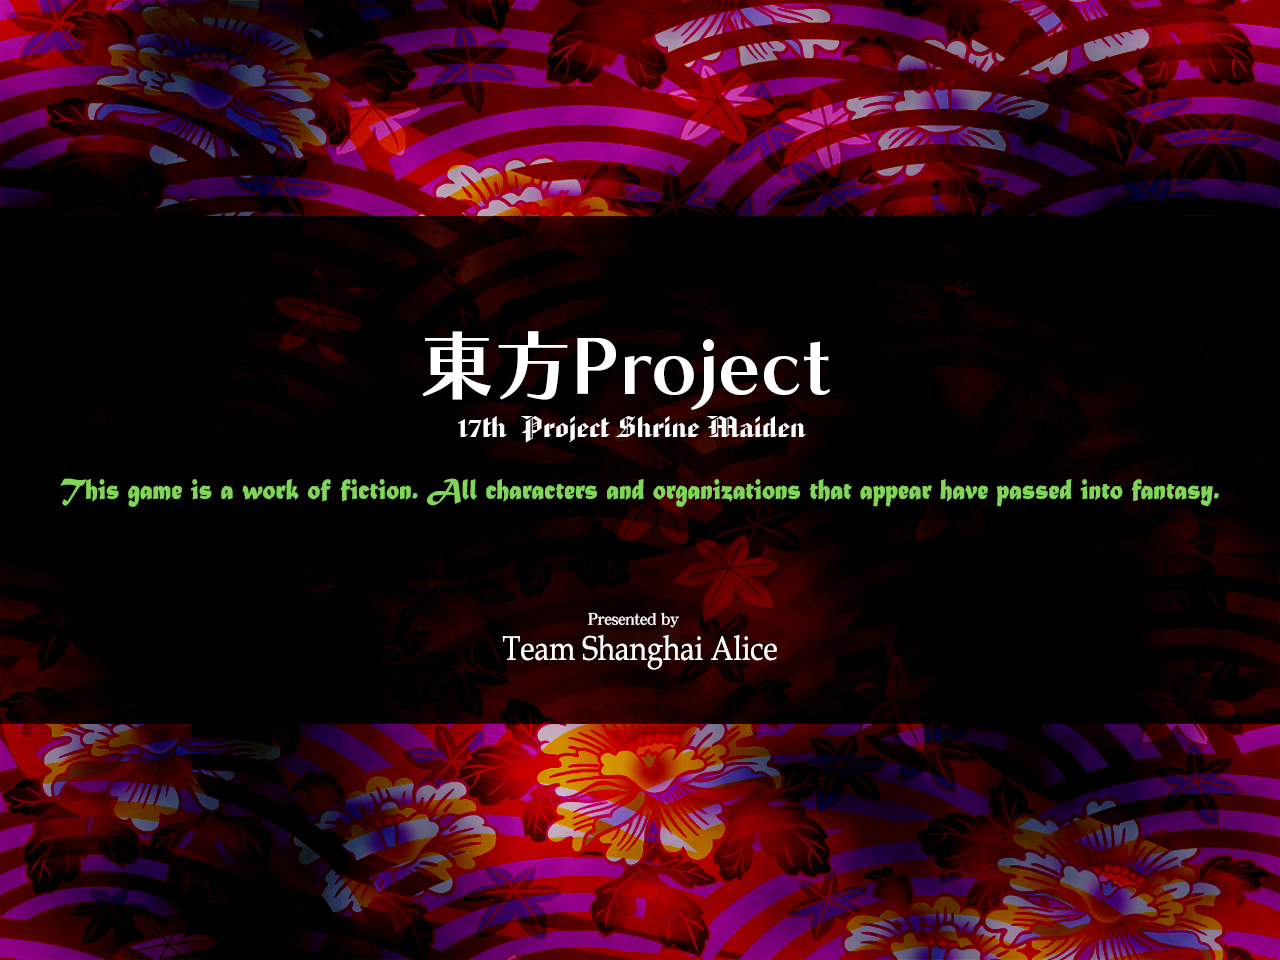
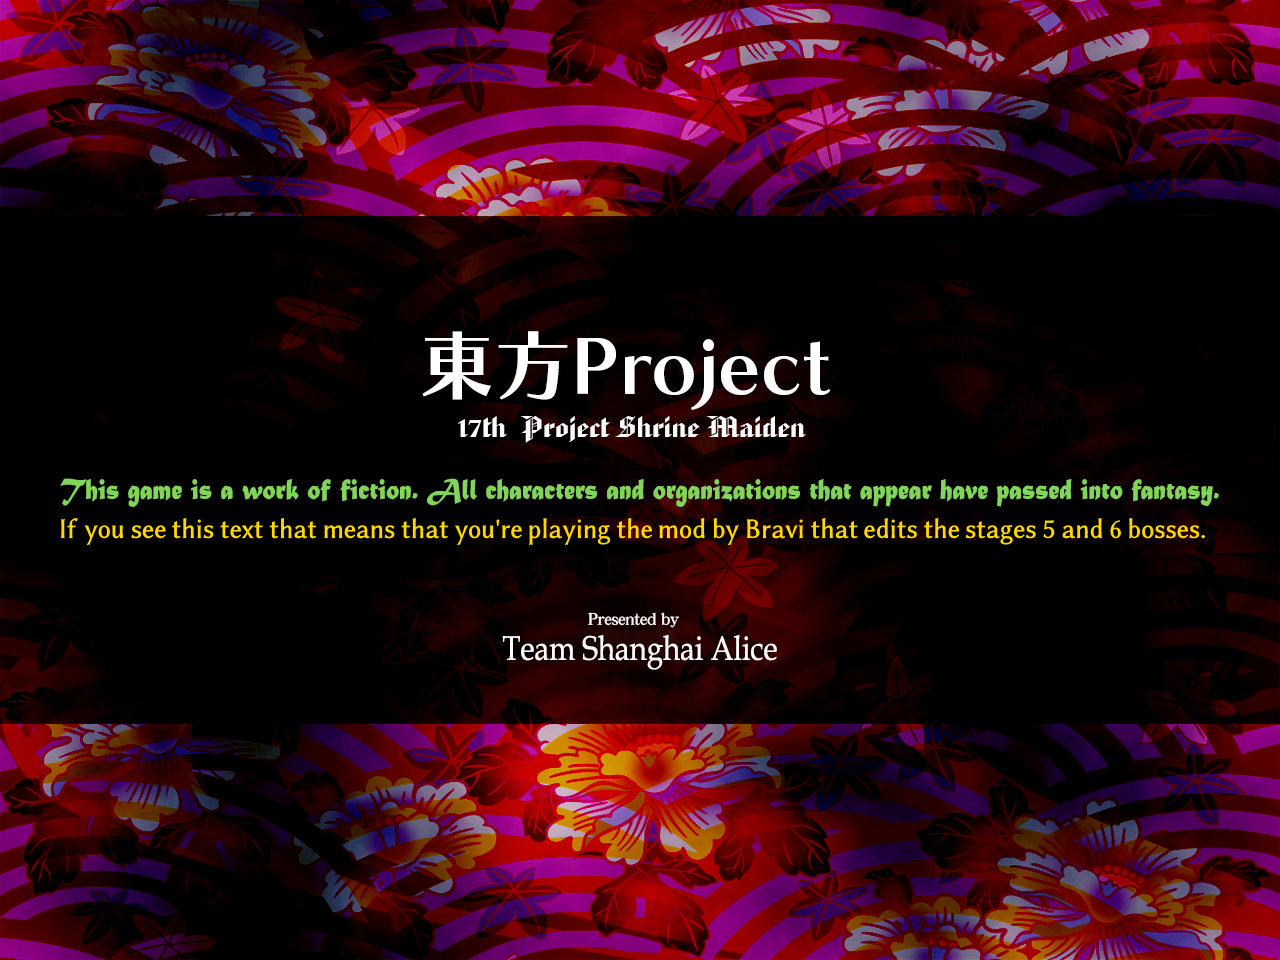
I forgot that

Changed region(s): [[0.0312, 0.5312, 0.9375, 0.5625]]

diff --git a/BraviOCOkina/patch.js b/BraviOCOkina/patch.js
@@ -12,5 +12,5 @@
 	"servers": [
 		"https://mirrors.thpatch.net/Bravi/BraviOCOkina/"
 	],
-	"title": "(Th13, 14.3, 15, 16, 16.5) Replaces the following with a new (OC) adversary.\n             A stage 6 midboss got added in th13, 15, and 16 as well.\n            Okina in Stage 6, Extra (turned into Phantasm) that got a revamp,\n             Wrong/Nightmare Saturdays that got a stage background revamp too\n             Yukari in Day 10\n            Futo and Tojiko in Stage 5\n             Seiran in Stage 1."
+	"title": "(Th13, 14.3, 15, 16, 16.5) Replaces the following with a new (OC) adversary.\n             A stage 6 midboss got added in th13, 15, and 16 as well.\n            Okina in Stage 6, Extra (turned into Phantasm) that got a revamp,\n             Wrong/Nightmare Saturdays that got a stage background revamp too\n             Yukari in Day 10\n            Futo and Tojiko in Stage 5\n             Seiran in Stage 1\n             Mayumi in stages 5 and 6, got new additions to Keiki's fight too."
 }
